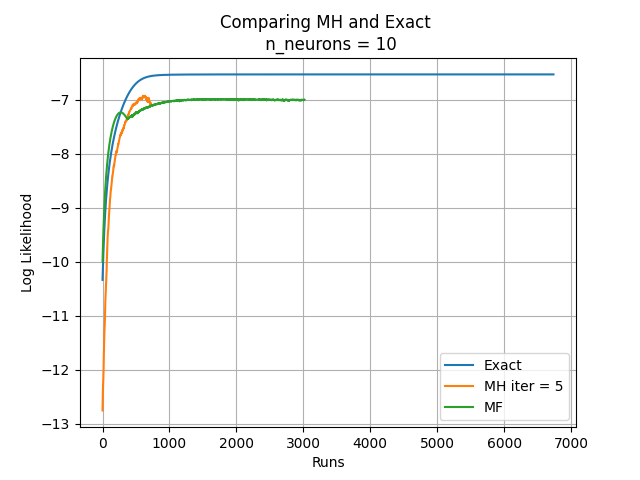
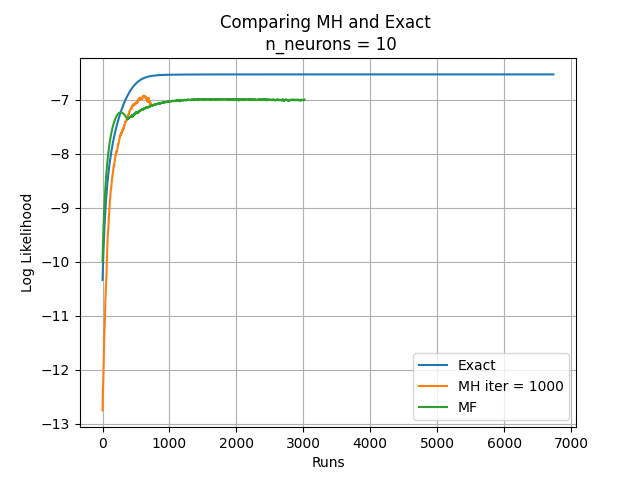
changed label in ex4

Changed region(s): [[0.6562, 0.75, 0.875, 0.875]]

diff --git a/scripts/ex4.py b/scripts/ex4.py
@@ -32,7 +32,7 @@ if __name__ == "__main__":
 
     plt.figure()
     make_plot(exact_bm, "Exact")
-    make_plot(MH_bm_1000, "MH iter = 5")
+    make_plot(MH_bm_1000, "MH iter = 1000")
     make_plot(MF_bm, "MF")
 
 
